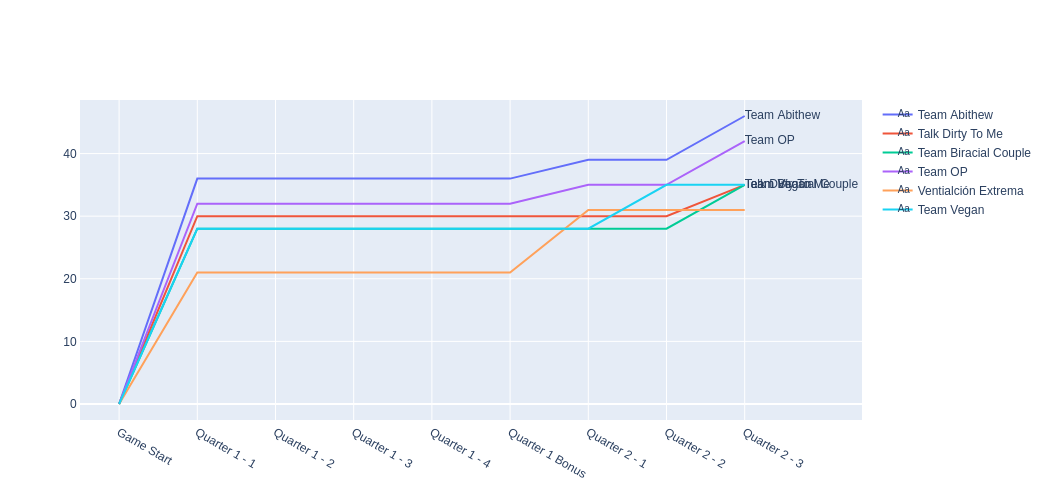
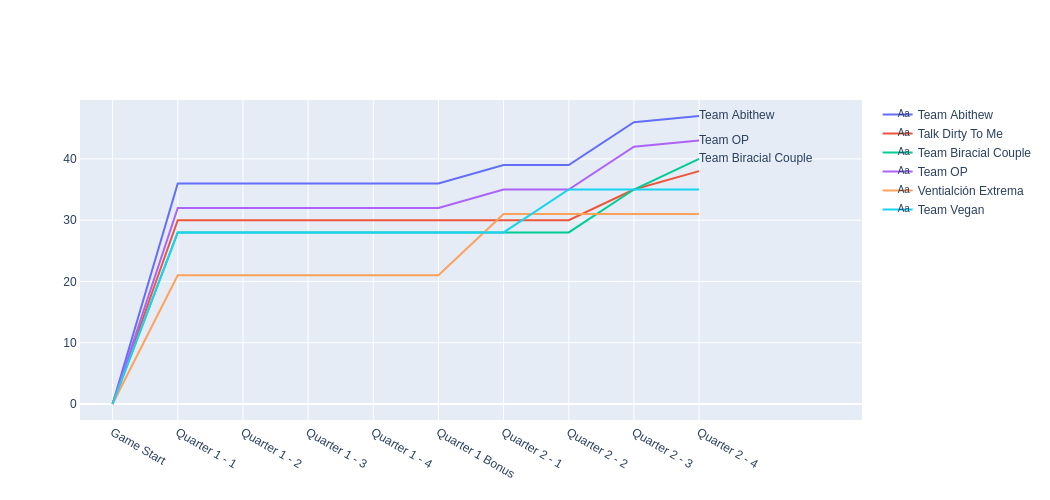
Live Edits

diff --git a/Trivia/Live_Tracker.html b/Trivia/Live_Tracker.html
@@ -13,7 +13,7 @@
         document.getElementById("title").innerHTML = "Trivia Live Scoring - " + m + "/" + d + "/" + y;
         </script>
         <div><img src = "img/fig1.png"></div>
-        <div>4 people (67%) got question 2-3 correct.</div>
+        <div>4 people (67%) got question 2-4 correct.</div>
         
         </body>
         </html>
